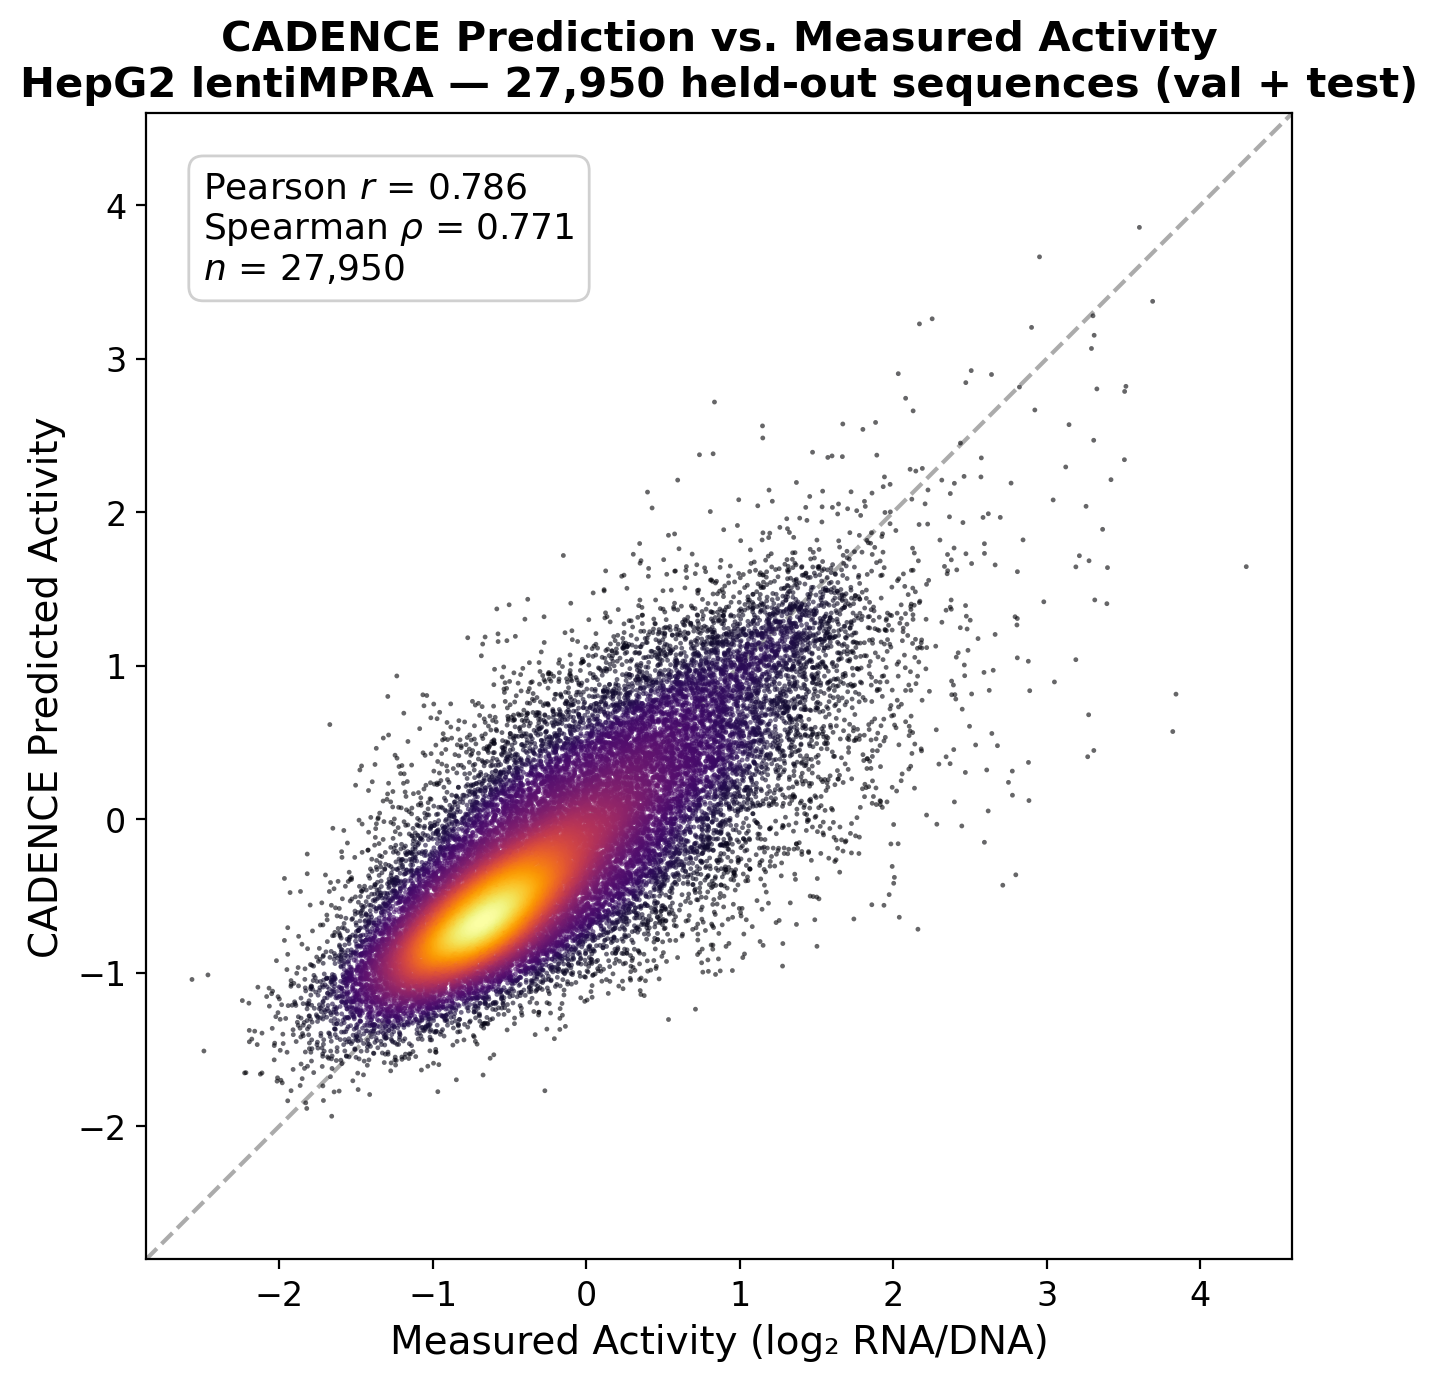
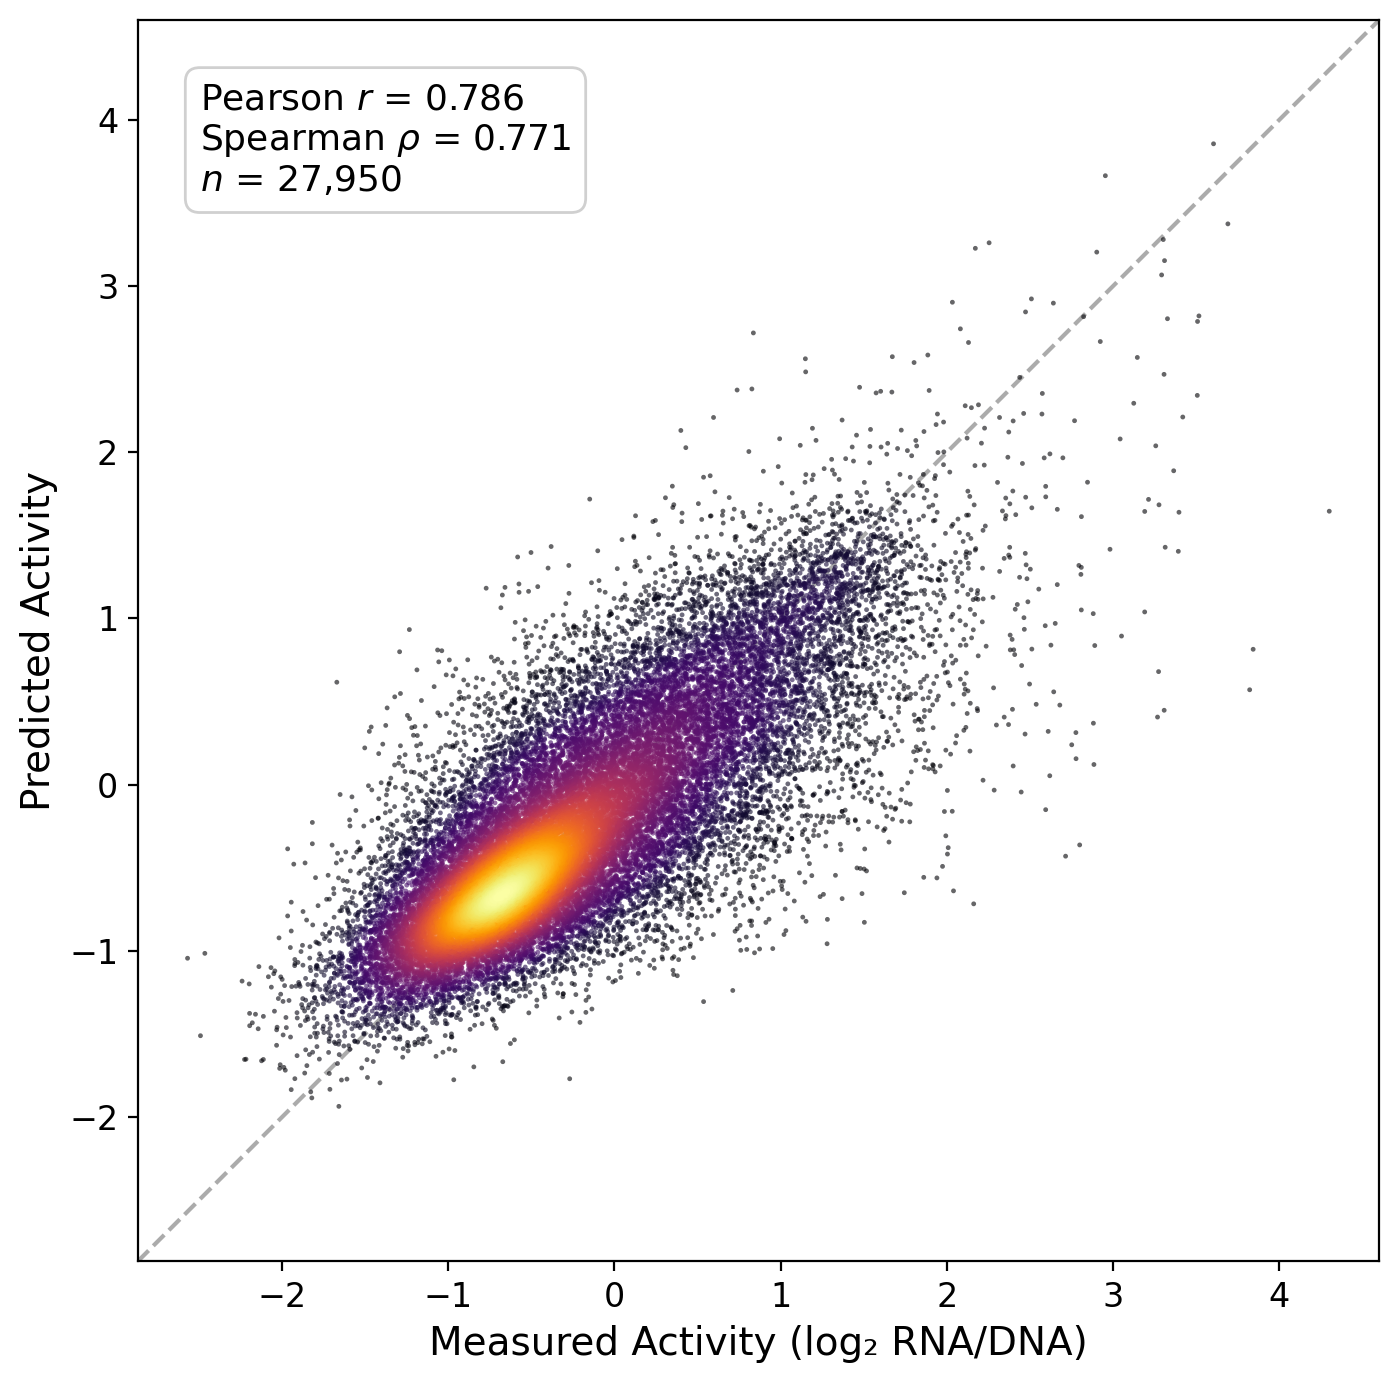
Remove title and CADENCE from prediction plot

diff --git a/generate_prediction_plot.py b/generate_prediction_plot.py
@@ -247,11 +247,7 @@ def main():
     ax.set_ylim(lo, hi)
 
     ax.set_xlabel("Measured Activity (log\u2082 RNA/DNA)", fontsize=14)
-    ax.set_ylabel("CADENCE Predicted Activity", fontsize=14)
-    ax.set_title(
-        "CADENCE Prediction vs. Measured Activity\n"
-        f"HepG2 lentiMPRA \u2014 {n_samples:,} held-out sequences (val + test)",
-        fontsize=15, fontweight="bold")
+    ax.set_ylabel("Predicted Activity", fontsize=14)
 
     text = (f"Pearson $r$ = {r:.3f}\n"
             f"Spearman $\\rho$ = {rho:.3f}\n"
